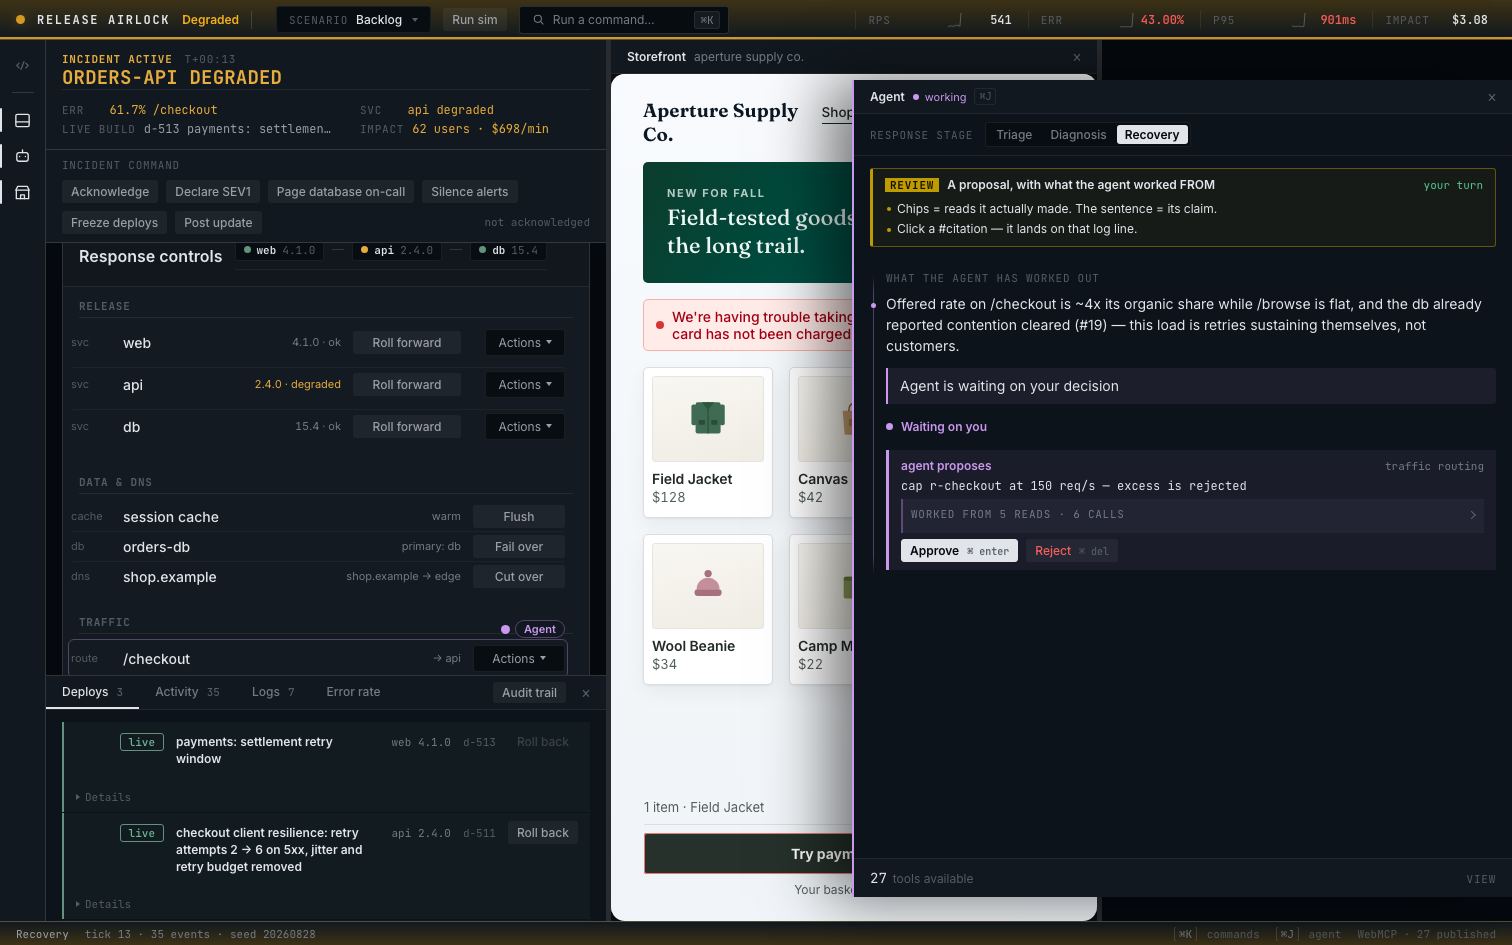
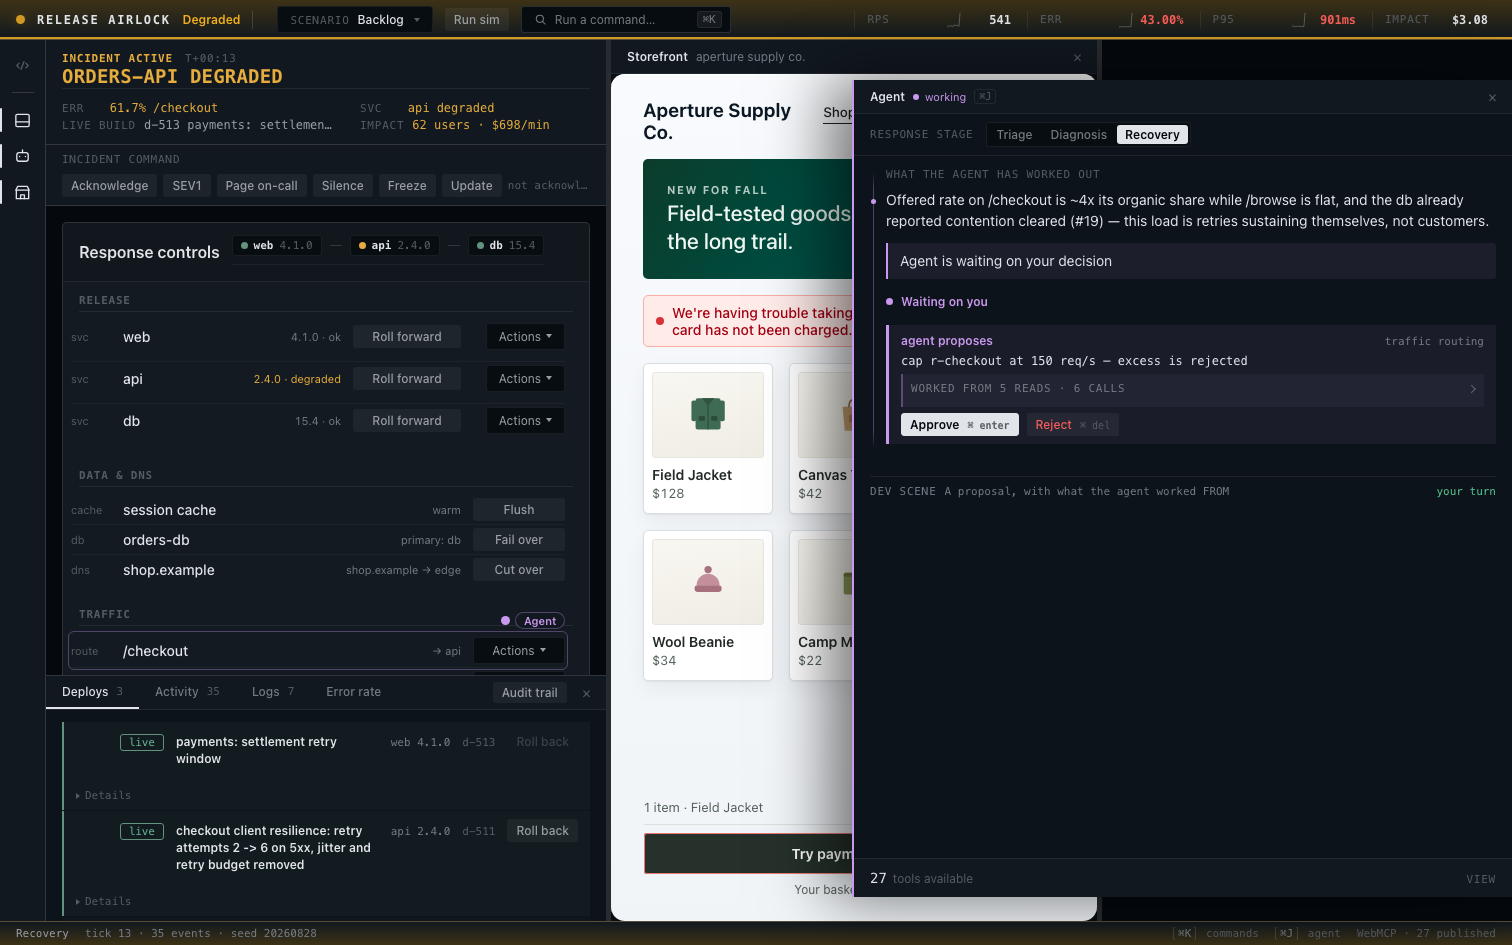
S4 + S1 + the review card: the frame stops looking like a demo of itself
S4 — THE FACES CHANGE, THE SYSTEM STAYS. Sid picked the system stack, and his
clarification is what made this small: "I'm also not saying I want every single
font to be the same i just don't think the fonts we're using are very common
and don't look professional". So the instrument/prose/display ROLES are intact
and only the faces move: JetBrains Mono -> ui-monospace/SF Mono, Inter ->
system-ui/SF Pro, Fraunces -> system-ui. The Google Fonts @import is gone with
them, so the console now loads no webfont at all. The storefront still reads as
a different world — its own colour, radius and density — it just stops doing it
with a display serif.

S1 — ONE LINE, IN THE STATE HE ACTUALLY LOOKS AT. The state strip that shipped
last session shrinks the row AFTER you acknowledge, which optimised a state he
never sees: at 1512 with the dock elevated the centre falls to its floor and
the six full-width buttons wrap onto two lines. The labels were the fix —
"Declare SEV1" -> "SEV1", "Page database on-call" -> "Page on-call", "Silence
alerts" -> "Silence", "Freeze deploys" -> "Freeze", "Post update" -> "Update" —
with the full wording moved onto aria-label and title so nothing is lost to a
screen reader or a hover. The row no longer wraps, and the posture caption
yields before any control does. Measured at 1512x945: two lines -> one.

THE REVIEW CARD IS A FOOTER LINE. Sid: "I don't think we need review plan panel
at all". It was a bordered yellow card at the TOP of the dock, above the
[…]

diff --git a/src/styles/review.css b/src/styles/review.css
@@ -7,67 +7,38 @@
    the region it sits in: a tag, a title, one line per idea, and the scene
    list. Never a paragraph.
    ====================================================================== */
+/* A ONE-LINE DISCLOSURE AT THE FOOT OF THE DOCK, not a card at the top of it.
+   What it must never stop saying: the caller in a ?review= scene is a SCRIPT,
+   not a model. Everything else it used to carry — a title block, a bulleted
+   list of things to try, a scene switcher — was dev chrome sitting above the
+   agent's own work in every frame Sid reviews. */
 #review-banner {
   display: flex;
-  flex-direction: column;
+  align-items: baseline;
   gap: var(--sp-2);
-  margin: 0 0 var(--sp-3);
-  padding: var(--sp-2) var(--sp-3);
-  border: 1px solid oklch(70% 0.16 95 / 0.45);
-  border-left: 3px solid oklch(70% 0.16 95);
-  border-radius: var(--r-sm);
-  background: oklch(70% 0.16 95 / 0.06);
+  margin: var(--sp-3) 0 0;
+  padding: var(--sp-2) 0 0;
+  border-top: 1px solid var(--line);
   font-family: var(--font-instrument);
   font-size: var(--text-2xs);
-  color: var(--ink-dim);
+  color: var(--ink-ghost);
+  min-width: 0;
 }
-#review-banner .rv-head { display: flex; flex-wrap: wrap; align-items: baseline; gap: 2px var(--sp-2); min-width: 0; }
+#review-banner .rv-head { display: contents; }
 #review-banner .rv-tag {
   flex: none;
-  padding: 0 5px;
-  background: oklch(70% 0.16 95);
-  color: oklch(16% 0.03 95);
-  font-weight: 600;
+  color: var(--ink-faint);
   text-transform: uppercase;
   letter-spacing: var(--tracking-label);
 }
-/* it used to ellipsis, which in a 486px dock meant the scene's own name was
-   cut off — the one line telling you what you are looking at. It wraps. */
 #review-banner .rv-title {
-  color: var(--ink);
-  font-family: var(--font-prose);
-  font-size: var(--text-xs);
-  font-weight: 600;
+  flex: 1 1 auto;
   min-width: 0;
-  flex: 1 1 60%;
+  overflow: hidden;
+  text-overflow: ellipsis;
+  white-space: nowrap;
+  color: var(--ink-faint);
 }
-#review-banner .rv-state {
-  margin-left: auto;
-  flex: none;
-  color: oklch(70% 0.16 95);
-}
+#review-banner .rv-state { flex: none; margin-left: auto; color: var(--ink-ghost); }
 #review-banner[data-state='ready'] .rv-state { color: var(--good); }
 #review-banner[data-state='failed'] .rv-state { color: var(--bad); }
-
-/* one idea per line. Never a wall of prose in a 400px column. */
-#review-banner .rv-try { list-style: none; margin: 0; padding: 0; }
-#review-banner .rv-try:empty { display: none; }
-#review-banner .rv-try li {
-  position: relative;
-  padding-left: var(--sp-3);
-  color: var(--ink);
-  font-family: var(--font-prose);
-  font-size: var(--text-xs);
-  line-height: 1.45;
-}
-#review-banner .rv-try li + li { margin-top: 3px; }
-#review-banner .rv-try li::before {
-  content: '';
-  position: absolute;
-  left: 2px;
-  top: 0.62em;
-  width: 4px;
-  height: 4px;
-  border-radius: 50%;
-  background: oklch(70% 0.16 95);
-}

diff --git a/src/main.ts b/src/main.ts
@@ -802,13 +802,19 @@ function lever(
   tool: string,
   input: Record<string, unknown>,
   label: string,
-  testid: string
+  testid: string,
+  full?: string
 ): string {
   const spec = WRITE_ACTIONS[tool];
   const cost = spec ? spec.cost : '';
+  // `full` is the unabbreviated wording. The incident-command strip shortens
+  // its labels to hold ONE line, and a screen reader must still hear the whole
+  // verb — "Freeze" on screen, "Freeze deploys" to the accessibility tree.
+  const aria = full ?? label;
   return `<button type="button" class="ctl-btn lever" data-act="lever" data-tool="${tool}"
     data-input='${JSON.stringify(input)}' data-testid="${testid}"
-    title="${cost.replace(/"/g, '&quot;')}">${label}<span class="lever-cost">${cost}</span></button>`;
+    aria-label="${aria.replace(/"/g, '&quot;')}"
+    title="${`${aria} — ${cost}`.replace(/"/g, '&quot;')}">${label}<span class="lever-cost">${cost}</span></button>`;
 }
 
 /**
@@ -848,27 +854,28 @@ function renderCommand(w: World): void {
         ? ''
         : lever('incident.acknowledge', { by: 'you' }, 'Acknowledge', 'ack-incident')
     }
-    ${inc.severity ? '' : lever('incident.severity', { level: 'sev1' }, 'Declare SEV1', 'sev1')}
+    ${inc.severity ? '' : lever('incident.severity', { level: 'sev1' }, 'SEV1', 'sev1', 'Declare SEV1')}
     ${
       inc.escalatedTo
         ? ''
-        : lever('incident.escalate', { team: 'database on-call' }, 'Page database on-call', 'escalate')
+        : lever('incident.escalate', { team: 'database on-call' }, 'Page on-call', 'escalate', 'Page database on-call')
     }
     ${
       inc.alertsSilenced
-        ? lever('alerts.silence', { silenced: false }, 'Unsilence alerts', 'silence')
-        : lever('alerts.silence', { silenced: true }, 'Silence alerts', 'silence')
+        ? lever('alerts.silence', { silenced: false }, 'Unsilence', 'silence', 'Unsilence alerts')
+        : lever('alerts.silence', { silenced: true }, 'Silence', 'silence', 'Silence alerts')
     }
     ${
       inc.deploysFrozen
-        ? lever('deploy.freeze', { frozen: false }, 'Lift deploy freeze', 'freeze')
-        : lever('deploy.freeze', { frozen: true }, 'Freeze deploys', 'freeze')
+        ? lever('deploy.freeze', { frozen: false }, 'Lift freeze', 'freeze', 'Lift the deploy freeze')
+        : lever('deploy.freeze', { frozen: true }, 'Freeze', 'freeze', 'Freeze deploys')
     }
     ${lever(
       'statuspage.post',
       { state: 'investigating', text: 'We are investigating elevated checkout failures.' },
-      'Post update',
-      'statuspage-post'
+      'Update',
+      'statuspage-post',
+      'Post a status page update'
     )}
     <span class="cmdbar-meta" id="command-meta">${
       posture.length ? posture.join(' · ') : 'not acknowledged'

diff --git a/src/styles/tokens.css b/src/styles/tokens.css
@@ -5,8 +5,15 @@
    drives all motion (agent motion gets its own signature).
    ============================================================ */
 
-@import url('https://fonts.googleapis.com/css2?family=Inter:wght@400;450;500;600;700;800&family=JetBrains+Mono:ital,wght@0,400;0,500;0,600;0,700;1,400&family=Fraunces:opsz,wght@9..144,500;9..144,650&display=swap');
-
+/* NO WEBFONT. Sid, 2026-09-01: "not a fan of the font families used in the
+   app, it looks too unnatural and not like real UIs", and then the
+   clarification that changed the job: "I'm also not saying I want every single
+   font to be the same i just don't think the fonts we're using are very common
+   and don't look professional". So the type SYSTEM stays — an instrument face
+   for machine truth, a prose face for reasoning — and only the FACES change.
+   JetBrains Mono, Inter and Fraunces are all characterful; the reference he
+   sent uses none of them. The system stack is the least remarkable, most
+   widely deployed type on the machine he reviews on, and it costs no request. */
 /* --- Health hue: the console-wide instrument -------------- */
 /* Registered so hue transitions ANIMATE (teal sweeps through
    amber on its way to red — the needle moves, never teleports). */
@@ -94,9 +101,13 @@
   --good: oklch(75% 0.13 160);
 
   /* --- type ----------------------------------------------- */
-  --font-instrument: "JetBrains Mono", ui-monospace, "SF Mono", Menlo, monospace;
-  --font-prose: "Inter", -apple-system, "SF Pro Text", "Segoe UI", system-ui, sans-serif;
-  --font-display: "Fraunces", "New York", Georgia, serif; /* the shop's voice, never the console's */
+  --font-instrument: ui-monospace, "SF Mono", SFMono-Regular, Menlo, Consolas, monospace;
+  --font-prose: system-ui, -apple-system, "SF Pro Text", "Segoe UI", Roboto, sans-serif;
+  /* The storefront's voice. It was a serif, which is a real two-worlds move
+     and also the third uncommon face in a console that wanted none. The shop
+     still reads as a different world — it keeps its own colour, its own
+     radius and its own density — it just stops doing it with a display serif. */
+  --font-display: system-ui, -apple-system, "SF Pro Display", "Segoe UI", Roboto, sans-serif;
   /* floor raised 2026-08-30: the console was 10-11px almost everywhere, which
      read as dense-and-unreadable rather than dense-and-authoritative */
   --text-2xs: 0.6875rem;   /* 11px — genuine fine print only (ids, timestamps) */

diff --git a/src/review.ts b/src/review.ts
@@ -336,33 +336,33 @@ function banner(scene: Scene, state: 'running' | 'ready' | 'failed', detail = ''
     el = document.createElement('div');
     el.id = 'review-banner';
     el.dataset.testid = 'review-banner';
+    // ONE QUIET LINE, AT THE FOOT. Sid: "I don't think we need review plan
+    // panel at all". It was a bordered yellow card at the TOP of the dock —
+    // the loudest thing in the frame, above the agent's own work, in every
+    // screenshot he takes. It cannot be deleted outright: it is the permanent
+    // on-screen disclosure that the CALLER here is a script rather than a
+    // model, and removing that would let a scene be mistaken for a model
+    // reasoning. So it keeps the disclosure and loses the card.
     el.innerHTML = `
       <div class="rv-head">
-        <span class="rv-tag">review</span>
+        <span class="rv-tag">dev scene</span>
         <span class="rv-title"></span>
         <span class="rv-state"></span>
       </div>
-      <ul class="rv-try"></ul>
     `;
     // ONE reserved area for anything agent- or review-related: this belongs
     // inside the agent dock, at the top of it, not floating in a corner
     // competing with the decision it is describing.
     const host = document.querySelector<HTMLElement>('#tool-rail .dock-body');
-    (host ?? document.body).prepend(el);
+    (host ?? document.body).append(el);
   }
   el.dataset.state = state;
   el.querySelector('.rv-title')!.textContent = scene.title;
   el.querySelector('.rv-state')!.textContent =
     state === 'running' ? detail : state === 'ready' ? 'your turn' : `failed — ${detail}`;
-  const list = el.querySelector<HTMLElement>('.rv-try')!;
-  list.innerHTML = '';
-  if (state === 'ready') {
-    for (const line of scene.tryThis) {
-      const li = document.createElement('li');
-      li.textContent = line;
-      list.append(li);
-    }
-  }
+  // the reviewer instructions used to render here as a bullet list; the
+  // banner is a one-line disclosure now and the scenes' own tryThis copy
+  // stays in STATUS.md, which is where a reviewer is actually reading it.
 }
 
 /**
@@ -396,7 +396,6 @@ async function watchForYourDecision(
   // console speaks for itself from here.
   el.dataset.state = 'running';
   el.querySelector('.rv-state')!.textContent = '';
-  el.querySelector<HTMLElement>('.rv-try')!.innerHTML = '';
 }
 
 /**

diff --git a/src/styles/shell.css b/src/styles/shell.css
@@ -2510,7 +2510,22 @@ body {
 /* --- incident command ----------------------------------------------------
    The first five minutes of on-call are ownership, severity, paging and
    what customers are told — not infrastructure. */
-.cmd-row { display: flex; flex-wrap: wrap; gap: var(--sp-2); align-items: center; }
+/* ONE LINE, ALWAYS. Sid, twice: "why is incident command still in the same
+   list of buttons UI I complained about". A state strip shipped that shrinks
+   AFTER you acknowledge — which optimised a state he never looks at, because
+   the resting state is six full-width buttons wrapping onto two lines the
+   moment the dock elevates and the centre falls to its floor. The labels are
+   the fix: shortened to the verb, full wording on aria-label and title. It
+   does not wrap, and the posture caption yields before any control does. */
+.cmd-row { display: flex; flex-wrap: nowrap; gap: 6px; align-items: center; min-width: 0; }
+.cmd-row > .ctl-btn.lever { flex: 0 0 auto; white-space: nowrap; }
+.cmd-row > .cmdbar-meta {
+  flex: 0 1 auto;
+  min-width: 0;
+  overflow: hidden;
+  text-overflow: ellipsis;
+  white-space: nowrap;
+}
 
 /* the status page is the one surface customers can read; it looks like it */
 .statuspage {

diff --git a/src/sim/vocabulary.ts b/src/sim/vocabulary.ts
@@ -259,7 +259,11 @@ WRITE_ACTIONS['incident.acknowledge'] = {
   tierName: 'incident',
   cost: 'Claims the incident. Whoever else was paged stops looking at it, so only take it if you are actually driving.',
   validate: (i) => needString(i, 'by'),
-  describe: (i) => `${String(i.by)} takes ownership of the incident`,
+  // Every other verb on this sheet is written as the ACTION ("cap /checkout
+  // at 150 req/s", "freeze deploys across all services"). This one narrated a
+  // third party doing something — "operator takes ownership of the incident" —
+  // which is the demo voice the framing law bans, sitting on a control card.
+  describe: () => `take ownership of the incident`,
 };
 
 WRITE_ACTIONS['incident.severity'] = {
